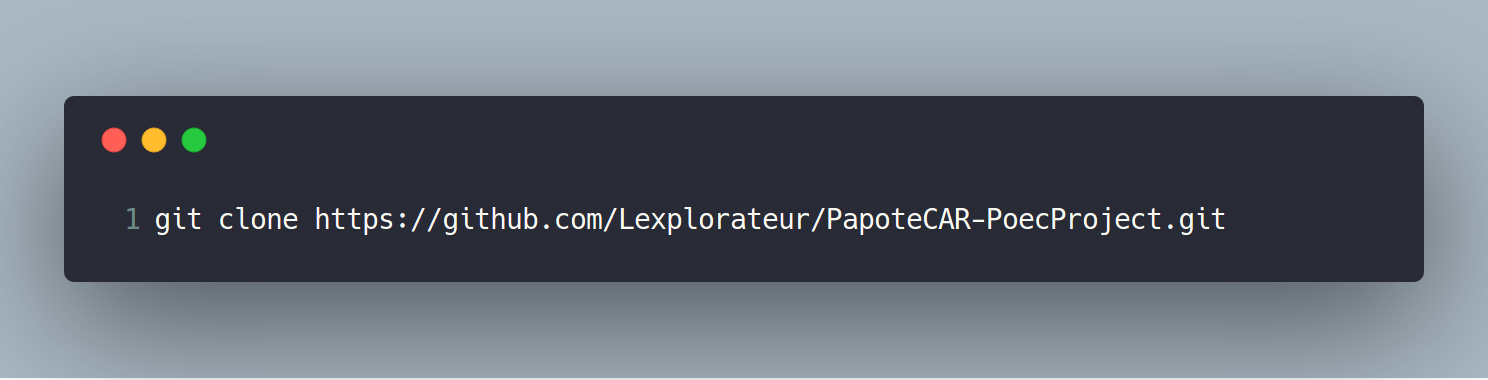
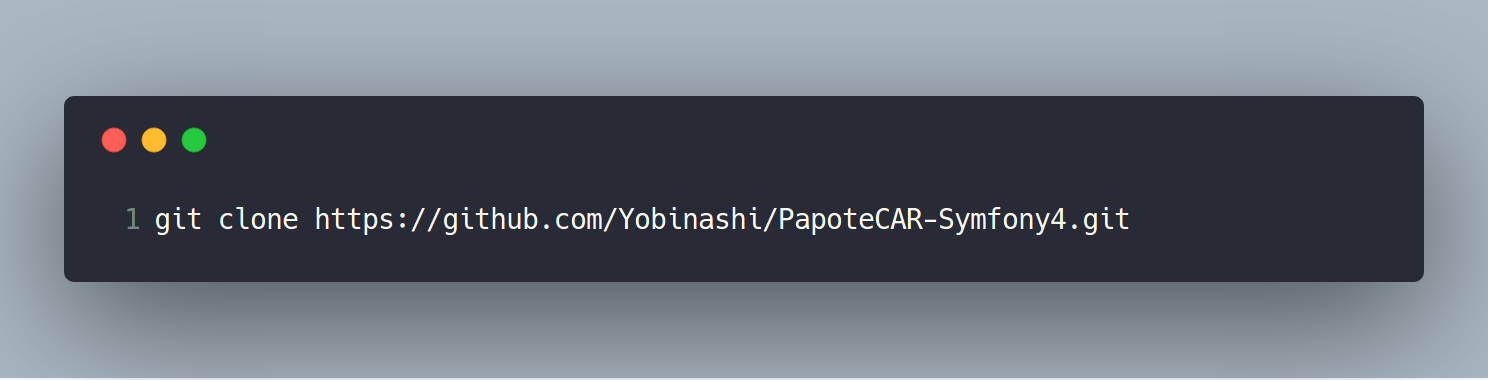
Modifications du README -- correction dans script.js pour retablir l'autocompletion de google map

Changed region(s): [[0.4019, 0.55, 0.8347, 0.6079]]

diff --git a/public/js/script.js b/public/js/script.js
@@ -1,6 +1,6 @@
 // UPLOAD IMAGE DANS INSCRPTION.HTML
 
-function handle(input) {
+/*function handle(input) {
     console.log(input);
     if (input.files && input.files[0]) {
         var reader = new FileReader();
@@ -11,14 +11,8 @@ function handle(input) {
         reader.readAsDataURL(input.files[0]);
         console.log("Image chargé");
     }
-};
+}*/
 
-/**
- * form-search.html.twig
- */
-let dateDepart = new Date();
-console.log(dateDepart);
-document.getElementById('search-run-date').valueAsDate = dateDepart;
 
 /**
  * API GOOGLE MAP JAVASCRIPT
@@ -215,3 +209,10 @@ function affichageFunction() {
     document.getElementById("panel_time").innerHTML = time_trip;
     document.getElementById("panel_distance").innerHTML = distance_trip;
 }
+
+/**
+ * form-search.html.twig
+ */
+let dateDepart = new Date();
+console.log(dateDepart);
+//document.getElementById('search-run-date').valueAsDate = dateDepart;

diff --git a/README.md b/README.md
@@ -2,49 +2,65 @@
 
 ![logo](favicon.png "logo du projet")
 
-    Projet fil rouge de la POEC Web &amp; Mobile, au sein de l'IMIE | https://numerique.imie.fr/
-    Appli web de type BlaBlaCar en Symfony 4 | Projet du groupe **SwatAlpha**.
+Projet fil rouge de la POEC Web &amp; Mobile, au sein de l'**IMIE** | https://numerique.imie.fr/
+Appli web de type BlaBlaCar en Symfony 4 | Projet du groupe **SwatAlpha**.
 
 ### Consignes préalables à l'élaboration de l'application web
    
-    - **Application de co-voiturage** de type BlaBLaCar avec les principales fonctionalités. 
+   - **Application de co-voiturage** de type BlaBLaCar avec les principales fonctionalités. 
     - Durée du projet: 4 jours, présentation incluse.
-
-### Langages utilisés:
     
-    - PHP / **Symfony 4**
-    - HTML 5 / **Twig**
-    - CSS / **SCSS**
-    - Javascript
+### Langages utilisés:
+
+  - PHP / **Symfony 4**
+  - HTML 5 / **Twig**
+  - CSS / **SCSS**
+  - Javascript
     
 ### Installation
-
-    * Installer composer https://getcomposer.org/download/
     
-    * Installer un serveur local du genre Wamp (comme moi) https://sourceforge.net/projects/wampserver/files/
-    
-    * Configurer PH à une version suppérieur ou égal à la 7.2
-        - exemple sous windows: 
-            <br>- lancer wamp<br>
-            - en bas à droite (flêche vers le haut), clic gauche sur le W > clic PHP > Version > 7.2
-    
-    * Cloner le fichier dans un dossier dans C:\wamp\www: (")
-    ![img1]( img1.png "avec la commande git clone https://github.com/Yobinashi/PapoteCAR-Symfony4.git")
+1. Installer composer.
+  https://getcomposer.org/download/
+2. Installer un serveur local du genre Wamp.
+  https://sourceforge.net/projects/wampserver/files/
+3. Configurer PHP à une version suppérieure ou égal à la 7.2.
+    - exemple sous windows: 
+        - lancer wamp
+        - en bas à droite (flêche vers le haut), clic gauche sur le W > clic PHP > Version > 7.2
+4. Cloner le fichier dans le dossier C:\wamp\www (pour windows): 
+![img1]( img1.png "avec la commande git clone https://github.com/Yobinashi/PapoteCAR-Symfony4.git")
 
-    * Rendez-vous dans le dossier, toujours avec le terminal. Puis:
-    ![img2](img2.png "cd papoteCAR-swatalpha")
+5. Rendez-vous dans le dossier, toujours avec le terminal.
+![img2](img2.png "cd papoteCAR-swatalpha")
 
-    * Enfin, afin d'installer les différents composants nécessaire au fonctionnement du projet, faire un:
-    ![img3](img3.png "composer install")
+6. Enfin, afin d'installer les différents composants nécessaire au fonctionnement du projet, faire un:
+![img3](img3.png "composer install")
 
-    * Vous pouvez désormais vous rendre dans le champ url du navigateur de votre choix et taper http://localhost/papoteCAR-swatalpha/public, afin d'accéder à l'aplication web.
+7. Vous pouvez désormais vous rendre dans le champ url du navigateur de votre choix et taper http://localhost/papoteCAR-swatalpha/public, afin d'accéder à l'aplication web.
+    ## Bonne navigation !
 
+### Listes des différentes fonctionalités:
 
-    ## Bonne navigation !
+* S'inscrire sur le site
+* Se connecter en tant qu'utilisateur
+* Uploader son image de profil
+* Rechercher un trajet
+* Affichage de la carte du trajet avec son temps et son nombre de km (API Google Map)
+* Proposer / Ajouter un trajet
+* Supprimer un trajet
+* Reserver un trajet
+* Accéder aux différentes données qui composent son profil
+* Créer un jeu de données en base de données, grâce à Faker, pour faciliter les tests
 
 ### Les participants
-
-    - 
+ 
+ > Laetitia
+ > Jordan
+ > Ali
+ > Valentin
+ > Mickael
+ > Nicolas
+ > et enfin , notre superviseur en chef, Emmanuel
 
 ### 
 
